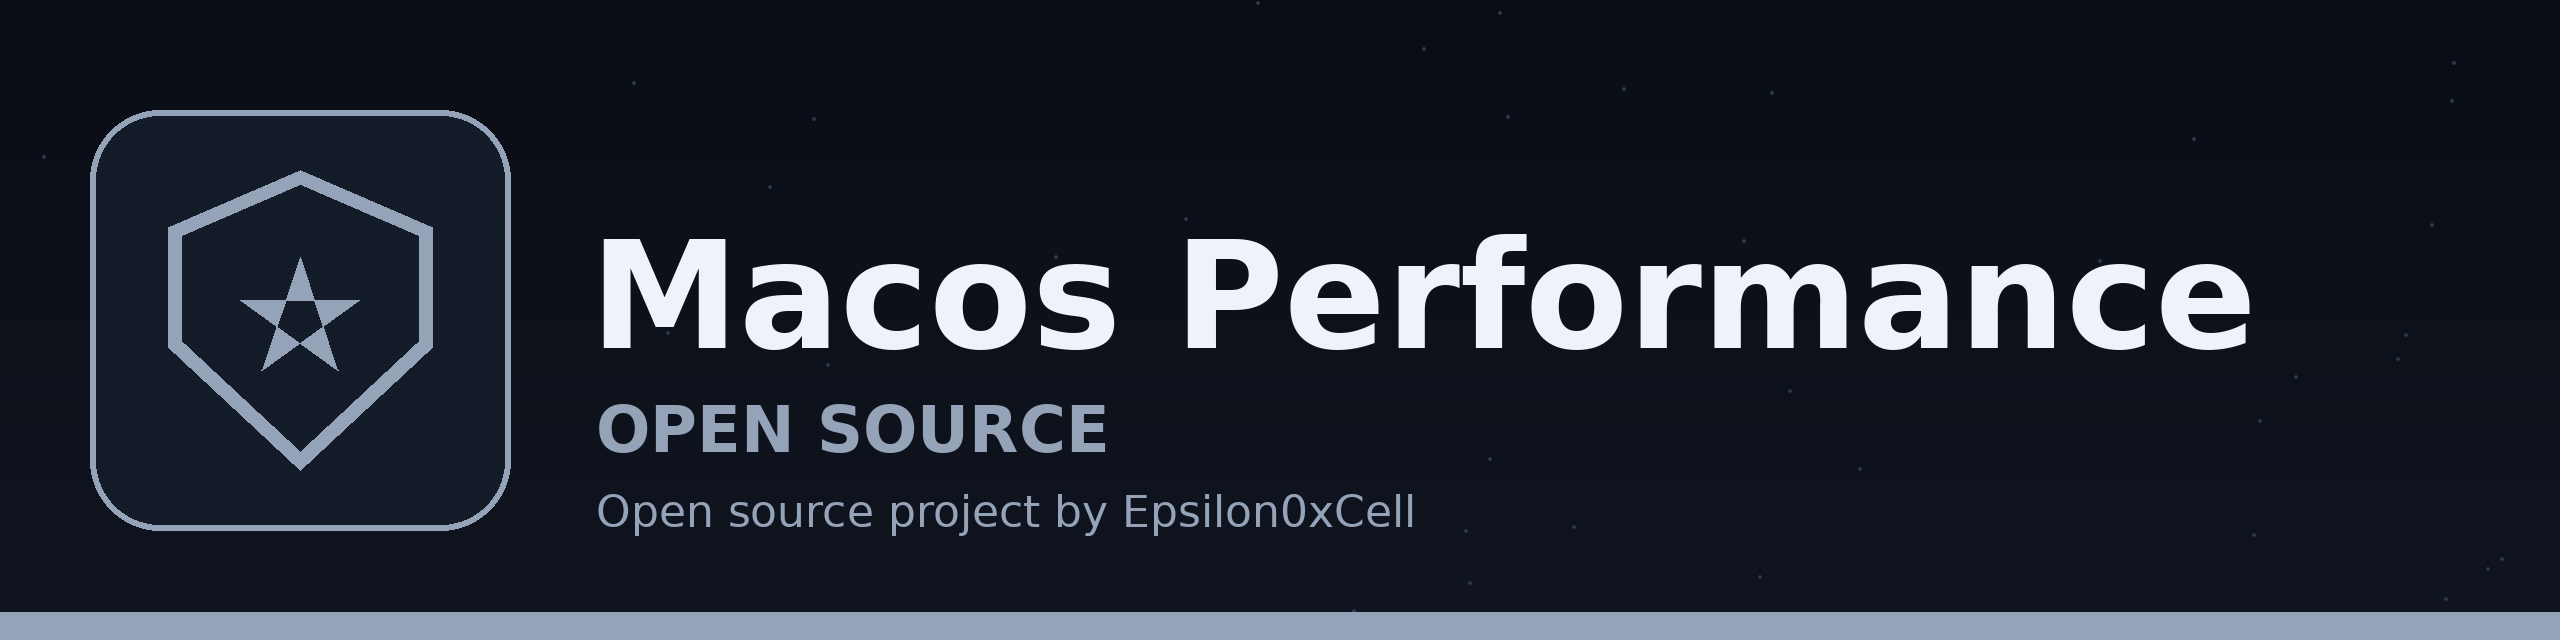
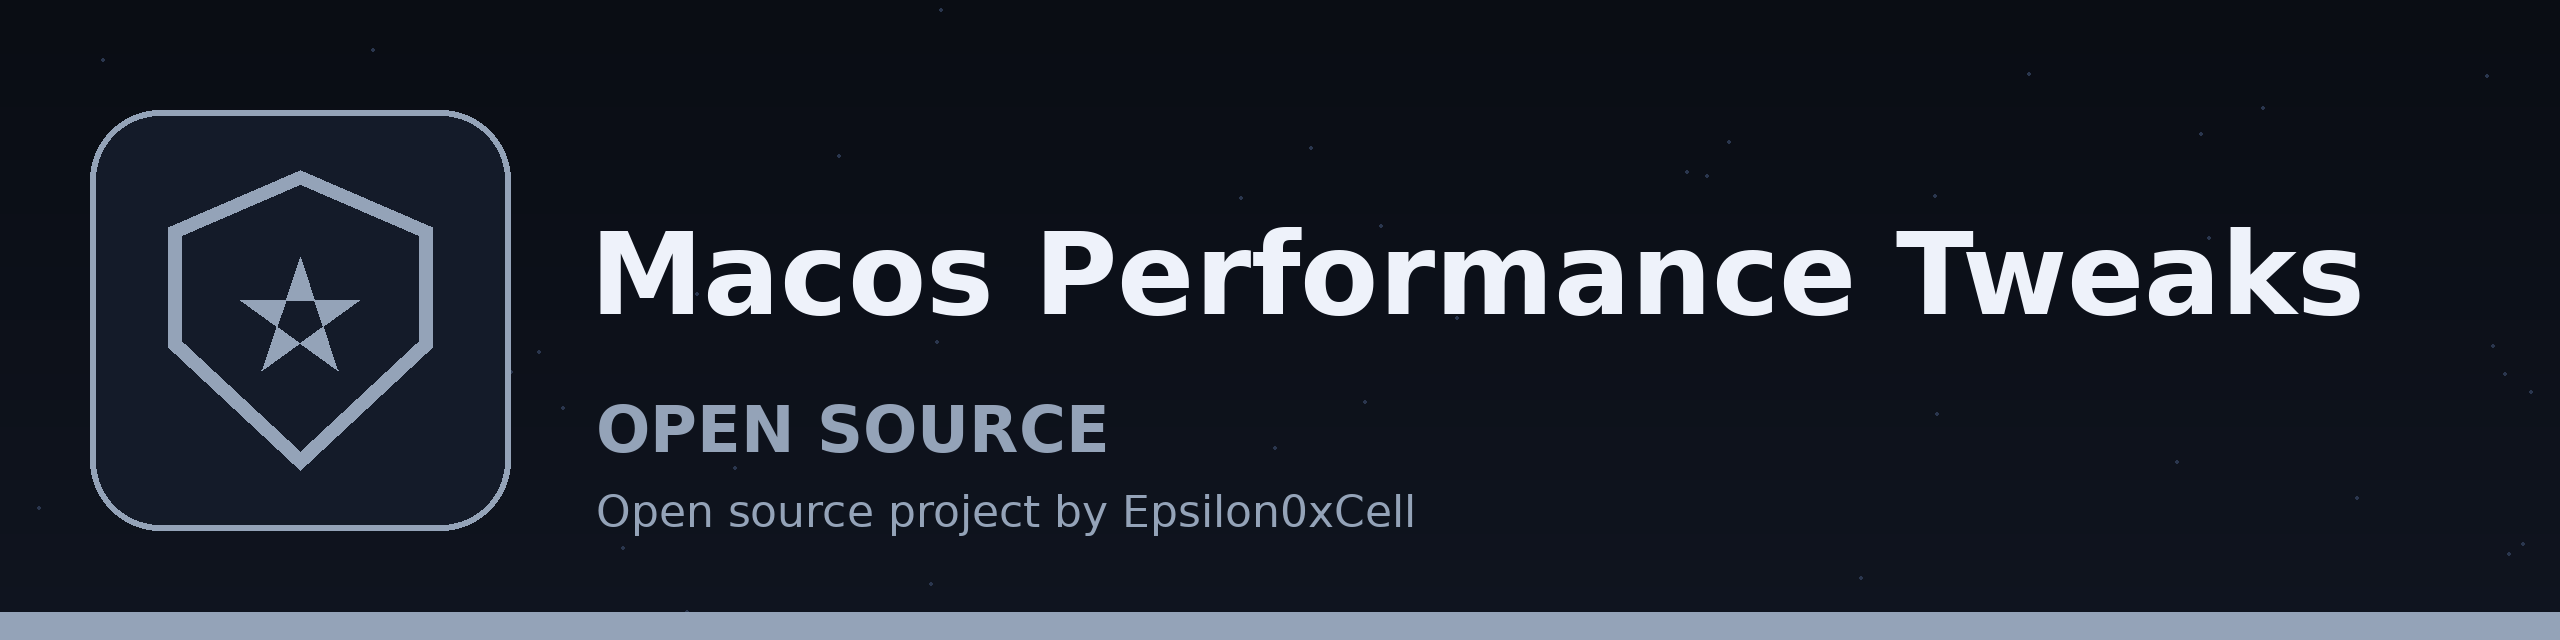
Update name to MacOS-Performance-Tweaks: README title and branding

Changed region(s): [[0.2188, 0.3438, 0.9375, 0.5625]]

diff --git a/README.md b/README.md
@@ -1,6 +1,6 @@
 ![Banner](banner.png)
 
-# macOS-performance
+# MacOS-Performance-Tweaks
 Performance Tweaks for macOS
 
 ```
